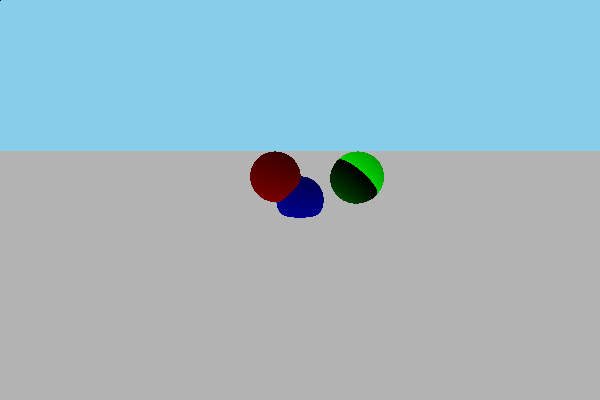
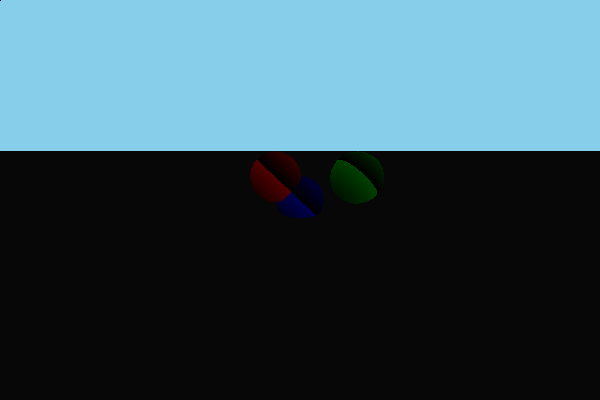
More maths

diff --git a/src/components/scene.rs b/src/components/scene.rs
@@ -1,5 +1,7 @@
 use super::na::Vector3;
 use super::*;
+use std::f32::consts::PI;
+
 
 pub struct Scene {
     pub width: u32,
@@ -11,14 +13,14 @@ pub struct Scene {
 }
 
 impl Scene {
-    pub fn new(cameraPos : Vector3<f32>) -> Scene {
+    pub fn new(camera_pos : Vector3<f32>) -> Scene {
         let mut result = Scene {
             width: 600,
             height: 400,
             fov: 90.0,
             camera: Camera::new(
                 // position
-                cameraPos,
+                camera_pos,
                 // direction
                 Vector3::new(0f32, 0f32, 0f32).normalize()
             ),
@@ -36,7 +38,7 @@ impl Scene {
             
         };
         result.camera.change_rotation(
-            result.elements.first().expect("a vector").get_position() - cameraPos
+            result.elements.first().expect("a vector").get_position() - camera_pos
         );
         result
     }
@@ -49,12 +51,11 @@ impl Scene {
                     match element.intersect(&ray) {
                         Some(d) => {
                             if d.distance < temp.1 {
-                                let intensity = (d.normal.dot(&self.directional_light.direction)) * &self.directional_light.intensity;
-                                let reflected = element.get_albedo(); // /std::f32::consts::PI;
-                                //println!("intensity {} reflected {}",intensity,reflected);
+                                let intensity = d.normal.dot(&(-self.directional_light.direction)) * self.directional_light.intensity;
+                                let reflected = -element.get_albedo() / PI;
                                 temp.1 = d.distance;
-                                
-                                temp.0 = element.get_color() * intensity * reflected ;//* self.directional_light.color.clone();
+                                let absorbed = Colors::WHITE.value() - element.get_color();
+                                temp.0 = (self.directional_light.color.clone() - absorbed) * intensity * reflected ;
                             }
                         }
                         None => (),

diff --git a/src/components/utils.rs b/src/components/utils.rs
@@ -1,6 +1,6 @@
 use super::*;
 use image::{Pixel, Rgba};
-use std::ops::Mul;
+use std::ops::{Mul,Add,Sub};
 
 #[derive(Clone)]
 pub struct Color {
@@ -61,7 +61,7 @@ impl Colors {
             Colors::MAGENTA => Color::new(255, 0, 255, 255),
             Colors::YELLOW => Color::new(255, 255, 0, 255),
             Colors::WHITE => Color::new(255, 255, 255, 255),
-            Colors::GREY => Color::new(155, 155, 155, 255),
+            Colors::GREY => Color::new(50, 50, 50, 255),
             Colors::SKYBLUE => Color::new(135,206,235,255),
             _ => Color::new(0, 0, 0, 255),
         }
@@ -87,6 +87,28 @@ impl Mul<Color> for Color {
             g : self.g.checked_mul(value.g).unwrap_or(255),
             b : self.b.checked_mul(value.b).unwrap_or(255),
             a : self.a.checked_mul(value.r).unwrap_or(255),
+        }
+    }
+}
+impl Add<Color> for Color {
+    type Output = Color;
+    fn add(self, value : Color) -> Color {
+        Color {
+            r : self.r.checked_add(value.r).unwrap_or(255),
+            g : self.g.checked_add(value.g).unwrap_or(255),
+            b : self.b.checked_add(value.b).unwrap_or(255),
+            a : self.a.checked_add(value.r).unwrap_or(255),
+        }
+    }
+}
+impl Sub<Color> for Color {
+    type Output = Color;
+    fn sub(self, value : Color) -> Color {
+        Color {
+            r : self.r.checked_sub(value.r).unwrap_or(0),
+            g : self.g.checked_sub(value.g).unwrap_or(0),
+            b : self.b.checked_sub(value.b).unwrap_or(0),
+            a : self.a.checked_sub(value.r).unwrap_or(0),
         }
     }
 }

diff --git a/src/main.rs b/src/main.rs
@@ -9,6 +9,7 @@ use std::thread;
 
 fn main() {
     println!("Rendering multiple scenes");   
+    // dotprod();
     render_multiple_scenes(); 
 }
 
@@ -63,11 +64,8 @@ fn render_scene(scene: &Scene) -> DynamicImage {
     image = scene.fire_rays(&mut image);
     image
 }
-#[test]
-fn name() {
-    render_scene(
-        &Scene::new(
-            Vector3::new(0f32,0f32,0f32)
-        )
-    );
+fn dotprod() {
+    let x = Vector3::new(1f32,1f32,0f32);
+    let y = Vector3::new(1f32,0f32,0f32);
+    println!("value is {}",x.dot(&y).acos());
 }

diff --git a/src/components/plane.rs b/src/components/plane.rs
@@ -1,4 +1,4 @@
-use super::na::{Rotation3, Vector3};
+use super::na::{Vector3};
 use super::*;
 
 pub struct Plane {
@@ -26,6 +26,7 @@ impl Intersectable for Plane {
         if denom > 1e-6 {
             let v = self.position - ray.origin;
             let distance = v.dot(&normal) / denom;
+            let hitpoint = (distance * ray.direction) + ray.origin;
             if distance >= 0.0 {
                 return Some(
                     PointInfo {

diff --git a/src/components/sphere.rs b/src/components/sphere.rs
@@ -38,7 +38,8 @@ impl Intersectable for Sphere {
         }
 
         let distance = if t0 < t1 { t0 } else { t1 };
-        let normal = (distance * &ray.direction) + &ray.origin;
+        let hitpoint = (distance * &ray.direction) + &ray.origin;
+        let normal = &hitpoint-self.center;
         Some(
             PointInfo{
                 distance : distance,

diff --git a/src/components/camera.rs b/src/components/camera.rs
@@ -1,5 +1,4 @@
-use super::na::{Quaternion, Rotation3, Vector3,Matrix4};
-use super::*;
+use super::na::{Rotation3, Vector3};
 
 #[derive(Clone)]
 pub struct Camera {
